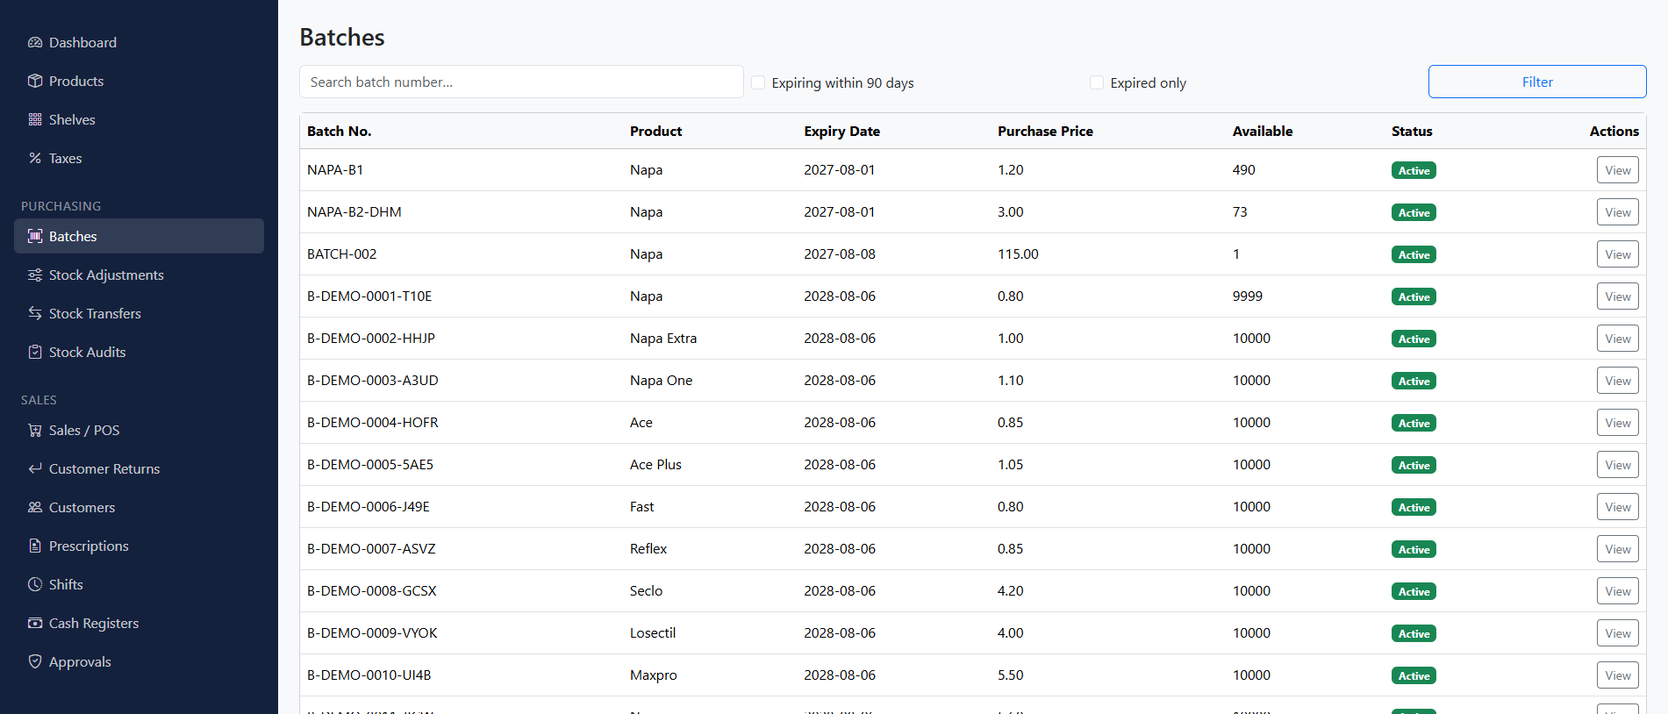
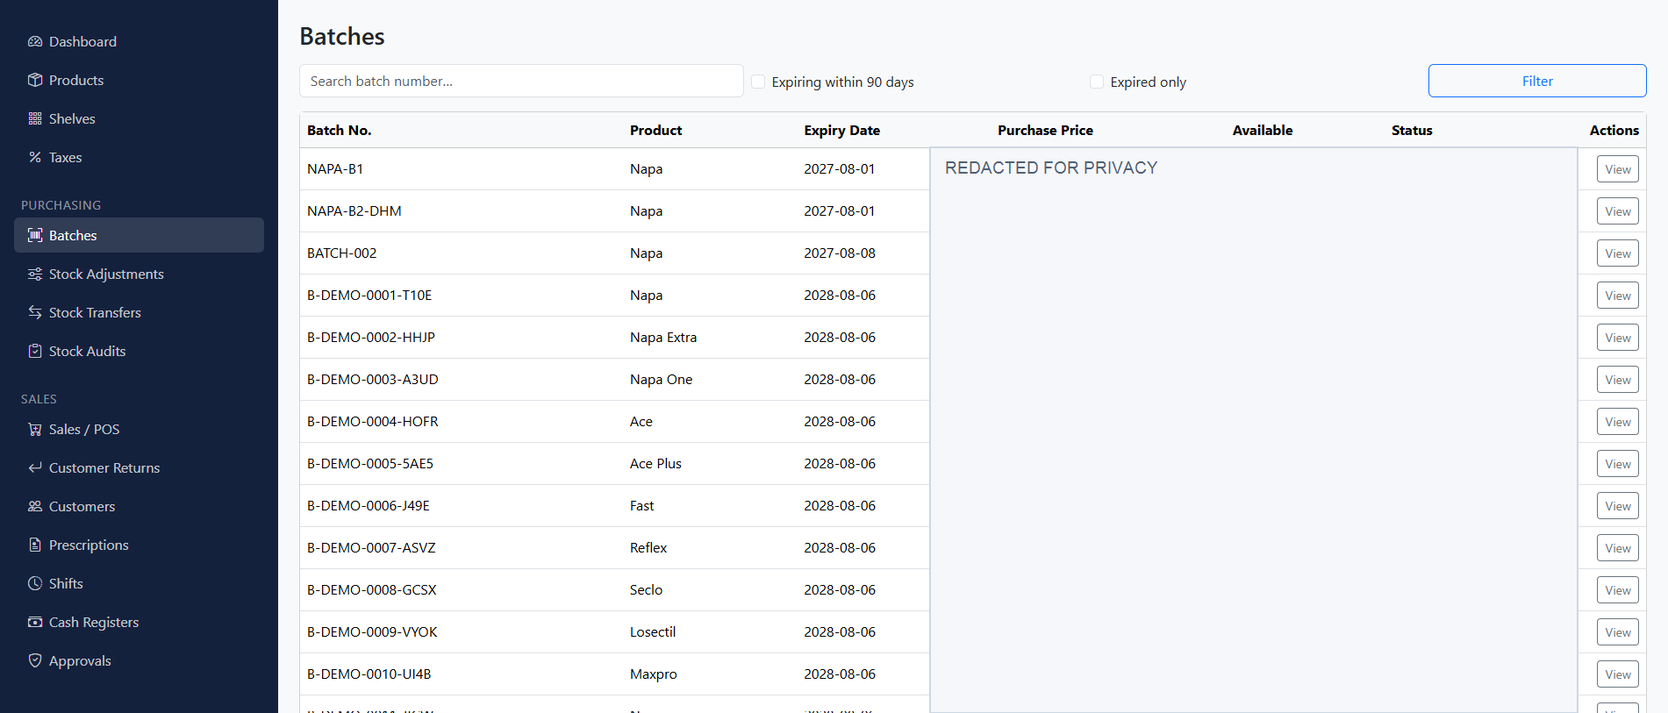
Improve Pharmacy ERP gallery and mobile API case study

diff --git a/projects/pharmacy.html b/projects/pharmacy.html
@@ -1,1 +1,1 @@
-<!doctype html><html lang="en" data-theme="light"><head><meta charset="utf-8"><meta name="viewport" content="width=device-width, initial-scale=1"><meta name="theme-color" content="#f7f8f4"><title>Pharmacy ERP &amp; POS — Project Overview — Iftakhar Ahmed Rakib</title><meta name="description" content="A multi-branch pharmacy operations platform with a Laravel web panel and Flutter mobile app, spanning catalog, purchasing, batch inventory, POS, cash oversight, and workforce workflows."><link rel="canonical" href="https://09rakib.github.io/projects/pharmacy.html"><meta property="og:title" content="Pharmacy ERP &amp; POS — Project Overview"><meta property="og:description" content="A multi-branch pharmacy operations platform with a Laravel web panel and Flutter mobile app, spanning catalog, purchasing, batch inventory, POS, cash oversight, and workforce workflows."><meta property="og:type" content="article"><meta property="og:url" content="https://09rakib.github.io/projects/pharmacy.html"><meta property="og:image" content="https://09rakib.github.io/assets/social-preview.png"><meta property="og:image:width" content="1200"><meta property="og:image:height" content="630"><meta property="og:image:alt" content="Iftakhar Ahmed Rakib — Flutter developer and software engineer"><meta name="twitter:card" content="summary_large_image"><link rel="icon" href="../assets/mark.svg" type="image/svg+xml"><link rel="stylesheet" href="../styles.css"><link rel="stylesheet" href="../polish.css"><link rel="stylesheet" href="../motion.css"><script src="../site.js" defer></script><script src="../motion.js" defer></script></head><body><a class="skip-link" href="#main">Skip to content</a><header class="site-header"><div class="container header-inner"><a class="brand" href="../index.html" aria-label="Rakib, home"><img src="../assets/mark.svg" width="35" height="35" alt=""><span>rakib<span class="brand-dot">.</span></span></a><nav id="site-nav" aria-label="Main navigation"><a href="../index.html#work">Work</a><a href="../index.html#skills">Skills</a><a href="../index.html#experience">Experience</a><a href="../index.html#contact">Contact ↗</a></nav><div class="header-actions"><button id="theme-toggle" class="icon-button" type="button" aria-label="Switch theme"><svg viewBox="0 0 24 24" fill="none" stroke="currentColor" stroke-width="1.6" aria-hidden="true"><path d="M20.5 14.2A9 9 0 0 1 9.8 3.5a9 9 0 1 0 10.7 10.7Z"/></svg></button><button id="menu-toggle" class="icon-button menu-toggle" type="button" aria-expanded="false" aria-label="Open navigation" aria-controls="site-nav">☰</button></div></div></header><main id="main" class="case-main"><section class="container case-intro"><a class="back-link" href="../index.html#work">← All selected work</a><p class="eyebrow">WEB + MOBILE / PHARMACY OPERATIONS</p><h1>Pharmacy ERP &amp; POS</h1><p class="case-lead">A multi-branch pharmacy operations platform with a Laravel web panel and Flutter mobile app, spanning catalog, purchasing, batch inventory, POS, cash oversight, and workforce workflows.</p><div class="tags"><span>Laravel 12</span><span>PHP</span><span>Blade</span><span>Bootstrap</span><span>Flutter</span><span>Dart</span><span>Riverpod</span><span>Dio</span><span>MySQL</span><span>Laravel Sanctum</span><span>Eloquent ORM</span></div><div class="case-meta"><div><span>CONTEXT</span><strong>Business application project</strong></div><div><span>MY ROLE / SCOPE</span><strong>Product planning and engineering contributions across pharmacy workflows; confirm your exact personal ownership before attributing individual modules.</strong></div><div><span>SOURCE</span><strong>Private repository</strong></div></div></section><div class="container"><div class="case-cover project-media"><div class="real-shot-composition illustrative-cover"><span class="shot-note">ILLUSTRATIVE PROJECT THUMBNAIL</span><div class="shot-description"><strong>Pharmacy ERP &amp; POS</strong><span>Purchasing, stock,<br>and branch operations.</span></div><img class="cover-screenshot" src="../assets/screenshots/pharmacy-erp-thumbnail.jpg" width="1440" height="810" alt="Illustrative Pharmacy ERP management system banner with an inventory dashboard concept" loading="lazy" decoding="async"></div><span class="media-label">Illustrative thumbnail · not an app screenshot</span></div></div><section class="container case-section case-overview"><div><p class="eyebrow">01 / THE PROBLEM</p><h2>What the project<br>needed to do.</h2></div><p>Pharmacy operations connect a shared medicine catalog to branch-specific purchasing, expiring batches, stock movements, counter sales, and cash reconciliation. The system must keep these workflows traceable while ensuring each tenant and branch sees only actions allowed by its permissions.</p></section><section class="case-tinted"><div class="container case-section"><p class="eyebrow">02 / ENGINEERING HIGHLIGHTS</p><h2>The work behind the interface.</h2><p class="engineering-highlight">Stock receipt, batch allocation, and sale workflows connect database transactions with tenant-scoped balance queries and row locks. The mobile client resolves session, branch, role, and shift state before selecting its working shell; Riverpod state, typed models, repositories, and Dio networking are kept in separate layers.</p><div class="challenge-grid"><article><span class="challenge-index">01</span><h3>Keep tenant and branch boundaries explicit</h3><p>Tenant middleware resolves the authenticated organization and gates suspended or expired tenants. Branch assignments and permission checks define the operational scope for a request; server-side authorization remains the authority for protected actions.</p></article><article><span class="challenge-index">02</span><h3>Make stock changes traceable</h3><p>The stock ledger records quantity changes with references and actors, while model guards restrict ledger updates and deletion. Receipt and sale flows use transactions, tenant-scoped balance queries, and row locks; sale allocation follows first-expiry-first-out (FEFO) order.</p></article><article><span class="challenge-index">03</span><h3>Connect web and mobile workflows</h3><p>Shared Laravel business services support the browser panel and mobile/API clients. In Flutter, auth, branch, and shift gates route users to the appropriate role-oriented shell; Dio attaches the active token and branch context to requests.</p></article><article><span class="challenge-index">04</span><h3>Account for cash-shift review</h3><p>Registers, shifts, cash movements, expected and closing cash, variance, approval requests, and investigations form connected records for cashier accountability and manager review.</p></article></div><div class="architecture-flow" aria-label="Project architecture"><span>Browser session / Sanctum token</span><i aria-hidden="true">→</i><span>Tenant + branch permissions</span><i aria-hidden="true">→</i><span>Shared Laravel services</span><i aria-hidden="true">→</i><span>Eloquent + MySQL transactions</span><i aria-hidden="true">→</i><span>Web panel + Flutter app</span></div></div></section><section class="container case-section case-overview"><div><p class="eyebrow">03 / IMPLEMENTED FEATURES</p><h2>What’s in the project.</h2></div><ul class="case-features"><li>Multi-tenant organizations with branch assignments, role permissions, and web, mobile, and API workflows.</li><li>Medicine master data, pharmacy product catalogs, supplier and customer records, barcodes, units, and images.</li><li>Purchasing from purchase orders through goods receipt, invoices, supplier payments, and purchase returns.</li><li>Batch-based inventory with stock balances, a traceable stock ledger, expiry-aware alerts, adjustments, transfers, and audits.</li><li>POS sales with search and barcode lookup, cart, split-payment data, approval handling, voids, and returns.</li><li>Cash registers and shifts with opening and closing balances, cash movements, variances, and investigation records.</li><li>Employee records, attendance, leave, payroll, prescriptions, operational dashboards, and reports.</li></ul></section><section class="container case-section case-gallery"><p class="eyebrow">04 / FROM THE APP</p><h2>A look at the real interface.</h2><div class="project-screen-grid"><figure><a href="../assets/screenshots/pharmacy-purchase-order.png" target="_blank" rel="noopener"><img src="../assets/screenshots/pharmacy-purchase-order.png" width="1912" height="822" loading="lazy" alt="Pharmacy ERP purchase order form with supplier, order date, expected date, item rows, and estimated total fields"></a><figcaption><span>01</span>Purchase-order entry: supplier, delivery dates, line items, tax, discounts, and estimated total. Personal account and branch details have been removed.</figcaption></figure><figure><a href="../assets/screenshots/pharmacy-medicine-master.png" target="_blank" rel="noopener"><img src="../assets/screenshots/pharmacy-medicine-master.png" width="1916" height="736" loading="lazy" alt="Global medicine master interface with search filters, medicine catalog rows, manufacturer, dosage form, status, and actions"></a><figcaption><span>02</span>Global medicine master: searchable medicines with manufacturer, dosage form, and status.</figcaption></figure><figure><a href="../assets/screenshots/pharmacy-batches.png" target="_blank" rel="noopener"><img src="../assets/screenshots/pharmacy-batches.png" width="1901" height="814" loading="lazy" alt="Pharmacy batch list with expiry filters, product, expiry date, purchase price, available quantity, and status"></a><figcaption><span>03</span>Batch inventory: expiry filters, available quantity, and batch status. Account and branch details have been removed.</figcaption></figure></div></section><section class="container case-section case-result"><p class="eyebrow">05 / RESULT & SCOPE</p><h2>Where the work stands.</h2><p>The reviewed implementation brings pharmacy catalog, purchasing, batch inventory, POS, cash-shift oversight, workforce modules, and reporting into web and mobile clients backed by shared Laravel services. Its data model and transaction flows are designed to make stock and cash changes traceable. Deployment outcomes or measured business impact are not claimed.</p><p class="scope-note">Based on the inspected project source and supplied technical notes. The source repository is private. Production deployment, real-world use, independent security audit, and end-to-end readiness have not been verified. The mobile receipt shares plain text; dedicated Bluetooth or thermal-printer integration is not claimed. Token/session caching is not offline-first transaction sync.</p></section><div class="container case-next"><a href="../index.html#work">← Back to selected work</a><a href="ecommerce.html">Next: Multi-Vendor Ecommerce ↗</a></div></main><footer class="container footer"><a class="brand" href="../index.html">rakib<span class="brand-dot">.</span></a><p>© <span id="year">2026</span> Iftakhar Ahmed Rakib</p><a href="../index.html#contact">Get in touch ↗</a></footer></body></html>
+<!doctype html><html lang="en" data-theme="light"><head><meta charset="utf-8"><meta name="viewport" content="width=device-width, initial-scale=1"><meta name="theme-color" content="#f7f8f4"><title>Pharmacy ERP &amp; POS — Project Overview — Iftakhar Ahmed Rakib</title><meta name="description" content="A multi-branch pharmacy operations platform with a Laravel web panel and Flutter mobile app, spanning catalog, purchasing, batch inventory, POS, cash oversight, and workforce workflows."><link rel="canonical" href="https://09rakib.github.io/projects/pharmacy.html"><meta property="og:title" content="Pharmacy ERP &amp; POS — Project Overview"><meta property="og:description" content="A multi-branch pharmacy operations platform with a Laravel web panel and Flutter mobile app, spanning catalog, purchasing, batch inventory, POS, cash oversight, and workforce workflows."><meta property="og:type" content="article"><meta property="og:url" content="https://09rakib.github.io/projects/pharmacy.html"><meta property="og:image" content="https://09rakib.github.io/assets/social-preview.png"><meta property="og:image:width" content="1200"><meta property="og:image:height" content="630"><meta property="og:image:alt" content="Iftakhar Ahmed Rakib — Flutter developer and software engineer"><meta name="twitter:card" content="summary_large_image"><link rel="icon" href="../assets/mark.svg" type="image/svg+xml"><link rel="stylesheet" href="../styles.css"><link rel="stylesheet" href="../polish.css"><link rel="stylesheet" href="../motion.css"><script src="../site.js" defer></script><script src="../motion.js" defer></script></head><body><a class="skip-link" href="#main">Skip to content</a><header class="site-header"><div class="container header-inner"><a class="brand" href="../index.html" aria-label="Rakib, home"><img src="../assets/mark.svg" width="35" height="35" alt=""><span>rakib<span class="brand-dot">.</span></span></a><nav id="site-nav" aria-label="Main navigation"><a href="../index.html#work">Work</a><a href="../index.html#skills">Skills</a><a href="../index.html#experience">Experience</a><a href="../index.html#contact">Contact ↗</a></nav><div class="header-actions"><button id="theme-toggle" class="icon-button" type="button" aria-label="Switch theme"><svg viewBox="0 0 24 24" fill="none" stroke="currentColor" stroke-width="1.6" aria-hidden="true"><path d="M20.5 14.2A9 9 0 0 1 9.8 3.5a9 9 0 1 0 10.7 10.7Z"/></svg></button><button id="menu-toggle" class="icon-button menu-toggle" type="button" aria-expanded="false" aria-label="Open navigation" aria-controls="site-nav">☰</button></div></div></header><main id="main" class="case-main"><section class="container case-intro"><a class="back-link" href="../index.html#work">← All selected work</a><p class="eyebrow">WEB + MOBILE / PHARMACY OPERATIONS</p><h1>Pharmacy ERP &amp; POS</h1><p class="case-lead">A multi-branch pharmacy operations platform with a Laravel web panel and Flutter mobile app, spanning catalog, purchasing, batch inventory, POS, cash oversight, and workforce workflows.</p><div class="tags"><span>Laravel 12</span><span>PHP</span><span>Blade</span><span>Bootstrap</span><span>Flutter</span><span>Dart</span><span>Riverpod</span><span>Dio</span><span>MySQL</span><span>Laravel Sanctum</span><span>Eloquent ORM</span></div><div class="case-meta"><div><span>CONTEXT</span><strong>Business application project</strong></div><div><span>MY ROLE / SCOPE</span><strong>Built the Flutter mobile client and integrated it with the Laravel REST API. Contributed to product planning, feature specification, UI direction, and workflow implementation.</strong></div><div><span>SOURCE</span><strong>Private repository</strong></div></div></section><div class="container"><div class="case-cover project-media"><div class="real-shot-composition illustrative-cover"><span class="shot-note">ILLUSTRATIVE PROJECT THUMBNAIL</span><div class="shot-description"><strong>Pharmacy ERP &amp; POS</strong><span>Purchasing, stock,<br>and branch operations.</span></div><img class="cover-screenshot" src="../assets/screenshots/pharmacy-erp-thumbnail.jpg" width="1440" height="810" alt="Illustrative Pharmacy ERP management system banner with an inventory dashboard concept" loading="lazy" decoding="async"></div><span class="media-label">Illustrative thumbnail · not an app screenshot</span></div></div><section class="container case-section case-overview"><div><p class="eyebrow">01 / THE PROBLEM</p><h2>What the project<br>needed to do.</h2></div><p>Pharmacy operations connect a shared medicine catalog to branch-specific purchasing, expiring batches, stock movements, counter sales, and cash reconciliation. The system must keep these workflows traceable while ensuring each tenant and branch sees only actions allowed by its permissions.</p></section><section class="case-tinted"><div class="container case-section"><p class="eyebrow">02 / ENGINEERING HIGHLIGHTS</p><h2>The work behind the interface.</h2><p class="engineering-highlight">Built the Flutter mobile client and integrated Laravel REST APIs with Dio. Riverpod providers and notifiers manage app state; typed models, repositories, and screens stay in separate layers. Session tokens and branch context accompany API requests, while shared Laravel services keep web and mobile workflows aligned.</p><div class="challenge-grid"><article><span class="challenge-index">01</span><h3>Keep tenant and branch boundaries explicit</h3><p>Tenant middleware resolves the authenticated organization and gates suspended or expired tenants. Branch assignments and permission checks define the operational scope for a request; server-side authorization remains the authority for protected actions.</p></article><article><span class="challenge-index">02</span><h3>Make stock changes traceable</h3><p>The stock ledger records quantity changes with references and actors, while model guards restrict ledger updates and deletion. Receipt and sale flows use transactions, tenant-scoped balance queries, and row locks; sale allocation follows first-expiry-first-out (FEFO) order.</p></article><article><span class="challenge-index">03</span><h3>Connect web and mobile workflows</h3><p>Integrated the Flutter app with shared Laravel REST endpoints using Dio. Requests carry the current session token and selected branch; centralized handling maps API errors, applies timeouts, and responds to expired sessions. Riverpod-managed session, role, branch, and shift state drives the appropriate mobile shell.</p></article><article><span class="challenge-index">04</span><h3>Account for cash-shift review</h3><p>Registers, shifts, cash movements, expected and closing cash, variance, approval requests, and investigations form connected records for cashier accountability and manager review.</p></article></div><div class="architecture-flow" aria-label="Project architecture"><span>Browser session / Sanctum token</span><i aria-hidden="true">→</i><span>Tenant + branch permissions</span><i aria-hidden="true">→</i><span>Shared Laravel services</span><i aria-hidden="true">→</i><span>Eloquent + MySQL transactions</span><i aria-hidden="true">→</i><span>Web panel + Flutter app</span></div></div></section><section class="container case-section case-overview"><div><p class="eyebrow">03 / IMPLEMENTED FEATURES</p><h2>What’s in the project.</h2></div><ul class="case-features"><li>Multi-tenant organizations with branch assignments, role permissions, and web, mobile, and API workflows.</li><li>Medicine master data, pharmacy product catalogs, supplier and customer records, barcodes, units, and images.</li><li>Purchasing from purchase orders through goods receipt, invoices, supplier payments, and purchase returns.</li><li>Batch-based inventory with stock balances, a traceable stock ledger, expiry-aware alerts, adjustments, transfers, and audits.</li><li>POS sales with search and barcode lookup, cart, split-payment data, approval handling, voids, and returns.</li><li>Cash registers and shifts with opening and closing balances, cash movements, variances, and investigation records.</li><li>Employee records, attendance, leave, payroll, prescriptions, operational dashboards, and reports.</li><li>Flutter mobile client integrated with the Laravel REST API through Dio, with Riverpod-managed state and session-aware role and branch flows.</li></ul></section><section class="container case-section case-gallery"><p class="eyebrow">04 / FROM THE APP</p><h2>A look at the real interface.</h2><div class="project-screen-grid"><figure><a href="../assets/screenshots/pharmacy-prescription.png" target="_blank" rel="noopener"><img src="../assets/screenshots/pharmacy-prescription.png" width="1897" height="820" loading="lazy" alt="Pharmacy ERP prescription entry form with doctor and customer selectors, patient fields, diagnosis notes, and prescribed medicine rows"></a><figcaption><span>01</span>Prescription entry form. The account header is removed; patient fields were blank in the supplied screen.</figcaption></figure><figure><a href="../assets/screenshots/pharmacy-sales.png" target="_blank" rel="noopener"><img src="../assets/screenshots/pharmacy-sales.png" width="1897" height="822" loading="lazy" alt="Pharmacy ERP sales list with invoice search, status filters, and transaction table"></a><figcaption><span>02</span>Sales list and invoice filters. Customer names and transaction rows are redacted for privacy.</figcaption></figure><figure><a href="../assets/screenshots/pharmacy-batches.png" target="_blank" rel="noopener"><img src="../assets/screenshots/pharmacy-batches.png" width="1901" height="813" loading="lazy" alt="Pharmacy batch list with expiry filters, product, expiry date, purchase price, available quantity, and status"></a><figcaption><span>03</span>Batch inventory: expiry filters and batch status. Account header, stock quantities, and purchase prices are redacted.</figcaption></figure><figure><a href="../assets/screenshots/pharmacy-purchase-returns.png" target="_blank" rel="noopener"><img src="../assets/screenshots/pharmacy-purchase-returns.png" width="1896" height="814" loading="lazy" alt="Purchase return supplier selection screen with supplier table and return actions"></a><figcaption><span>04</span>Purchase-return supplier selection. Supplier names, codes, and phone numbers are redacted.</figcaption></figure><figure><a href="../assets/screenshots/pharmacy-purchase-order.png" target="_blank" rel="noopener"><img src="../assets/screenshots/pharmacy-purchase-order.png" width="1912" height="821" loading="lazy" alt="Pharmacy ERP purchase order form with supplier, order date, expected date, item rows, and estimated total fields"></a><figcaption><span>05</span>Purchase-order entry: supplier, delivery dates, line items, tax, discounts, and estimated total. Personal account and branch details have been removed.</figcaption></figure><figure><a href="../assets/screenshots/pharmacy-medicine-master.png" target="_blank" rel="noopener"><img src="../assets/screenshots/pharmacy-medicine-master.png" width="1916" height="735" loading="lazy" alt="Global medicine master interface with search filters, medicine catalog rows, manufacturer, dosage form, status, and actions"></a><figcaption><span>06</span>Global medicine master: searchable medicines with manufacturer, dosage form, and status.</figcaption></figure><figure><a href="../assets/screenshots/pharmacy-branch-products.png" target="_blank" rel="noopener"><img src="../assets/screenshots/pharmacy-branch-products.png" width="1907" height="728" loading="lazy" alt="Branch pharmacy products table with medicine search, status and category filters, and product actions"></a><figcaption><span>07</span>Branch product catalog. Account details and the welcome banner are removed; the list demonstrates catalog search and management. Selling-price values are hidden.</figcaption></figure><figure><a href="../assets/screenshots/pharmacy-security-alerts.png" target="_blank" rel="noopener"><img src="../assets/screenshots/pharmacy-security-alerts.png" width="1905" height="809" loading="lazy" alt="Pharmacy security alerts interface with status and severity filters and a privacy-redacted alert table"></a><figcaption><span>08</span>Security-alert review screen. Staff identities and incident records are redacted.</figcaption></figure><figure><a href="../assets/screenshots/pharmacy-security-dashboard.png" target="_blank" rel="noopener"><img src="../assets/screenshots/pharmacy-security-dashboard.png" width="1196" height="768" loading="lazy" alt="Pharmacy security dashboard with overview panels and privacy-redacted operational data"></a><figcaption><span>09</span>Security oversight dashboard. Operational counts, staff references, and cash variances are redacted.</figcaption></figure><figure><a href="../assets/screenshots/pharmacy-purchasing-dashboard.png" target="_blank" rel="noopener"><img src="../assets/screenshots/pharmacy-purchasing-dashboard.png" width="1902" height="819" loading="lazy" alt="Pharmacy purchasing dashboard with stock, purchase order, and payable summary cards"></a><figcaption><span>10</span>Purchasing dashboard and workflow shortcuts. Financial and supplier records are redacted.</figcaption></figure><figure><a href="../assets/screenshots/pharmacy-branch-catalog.png" target="_blank" rel="noopener"><img src="../assets/screenshots/pharmacy-branch-catalog.png" width="1910" height="735" loading="lazy" alt="Pharmacy branch product catalog with search, category filters, active statuses, and medicine rows"></a><figcaption><span>11</span>Branch product catalog with medicine search and category filters. Account header and welcome banner are removed. Selling-price values are hidden.</figcaption></figure><figure><a href="../assets/screenshots/pharmacy-cash-shifts.png" target="_blank" rel="noopener"><img src="../assets/screenshots/pharmacy-cash-shifts.png" width="1907" height="813" loading="lazy" alt="Cash register shift list with open and closed states, variance column, and actions"></a><figcaption><span>12</span>Cash-register shift oversight. Staff names, dates, shift identifiers, and variances are redacted.</figcaption></figure></div></section><section class="container case-section case-result"><p class="eyebrow">05 / RESULT & SCOPE</p><h2>Where the work stands.</h2><p>The reviewed implementation brings pharmacy catalog, purchasing, batch inventory, POS, cash-shift oversight, workforce modules, and reporting into web and mobile clients backed by shared Laravel services. Its data model and transaction flows are designed to make stock and cash changes traceable. Deployment outcomes or measured business impact are not claimed.</p><p class="scope-note">Based on the inspected project source and supplied technical notes. The source repository is private. Production deployment, real-world use, independent security audit, and end-to-end readiness have not been verified. The mobile receipt shares plain text; dedicated Bluetooth or thermal-printer integration is not claimed. Token/session caching is not offline-first transaction sync.</p></section><div class="container case-next"><a href="../index.html#work">← Back to selected work</a><a href="ecommerce.html">Next: Multi-Vendor Ecommerce ↗</a></div></main><footer class="container footer"><a class="brand" href="../index.html">rakib<span class="brand-dot">.</span></a><p>© <span id="year">2026</span> Iftakhar Ahmed Rakib</p><a href="../index.html#contact">Get in touch ↗</a></footer></body></html>

diff --git a/index.html b/index.html
@@ -58,7 +58,7 @@
 <article class="project-card" data-category="mobile"><div class="project-media"><svg viewBox="0 0 550 300" xmlns="http://www.w3.org/2000/svg" aria-hidden="true" focusable="false"><defs></defs><rect width="550" height="300" fill="#e9e9f3"/><circle cx="430" cy="80" r="165" fill="#d8d9ee"/><circle cx="410" cy="90" r="128" fill="none" stroke="#c0c2df"/><text x="35" y="65" fill="#3c3c65" font-family="Segoe UI,sans-serif" font-size="12" letter-spacing="3">VOIEXA</text><text x="35" y="106" fill="#363557" font-family="Georgia,serif" font-size="30">A more connected</text><text x="35" y="143" fill="#363557" font-family="Georgia,serif" font-size="30">mobile experience.</text><g transform="translate(337,27) rotate(8,50,90)"><rect x="0" y="0" width="100" height="180" rx="17" fill="#fff" stroke="#bccdc6" stroke-width="2"/><rect x="8" y="10" width="84" height="160" rx="11" fill="#f3f6f4"/><rect x="34" y="7" width="32" height="5" rx="3" fill="#a6bcb1"/><circle cx="50" cy="57" r="22" fill="#6361a5"/><path d="M39 55h5l3-7 5 18 4-12h7" fill="none" stroke="#fff" stroke-width="2"/><rect x="21" y="96" width="58" height="5" rx="2" fill="#d9dbea"/><rect x="27" y="109" width="46" height="4" rx="2" fill="#e2e4ec"/><circle cx="50" cy="144" r="13" fill="#6361a5"/><path d="m45 142 4 5 6-6" fill="none" stroke="#fff" stroke-width="2"/></g><g fill="#7776a8"><rect x="38" y="195" width="5" height="14" rx="2"/><rect x="49" y="182" width="5" height="40" rx="2"/><rect x="60" y="172" width="5" height="60" rx="2"/><rect x="71" y="190" width="5" height="24" rx="2"/><rect x="82" y="182" width="5" height="40" rx="2"/><rect x="93" y="193" width="5" height="18" rx="2"/><rect x="104" y="174" width="5" height="56" rx="2"/><rect x="115" y="184" width="5" height="36" rx="2"/><rect x="126" y="193" width="5" height="18" rx="2"/></g></svg><span class="media-private">Private source</span><span class="media-label">Concept illustration · not an app screenshot</span></div><div class="project-body"><p class="project-category">MOBILE / PROFESSIONAL CONTRIBUTION</p><div class="project-title-row"><h3><a href="projects/voiexa.html">Voiexa Mobile App</a></h3><a class="project-open" href="projects/voiexa.html" aria-label="Read Voiexa Mobile App case study">↗</a></div><p class="project-description">A Flutter client for a communications platform, with authentication flows and connected mobile interfaces.</p><div class="tags"><span>Flutter</span><span>Dart</span><span>Dio</span><span>Provider</span></div><div class="project-bottom"><a class="detail-link" href="projects/voiexa.html">Explore project <span aria-hidden="true">↗</span></a></div></div></article>
 <article class="project-card" data-category="mobile"><div class="project-media"><div class="real-shot-composition"><span class="shot-note">ACTUAL ANDROID APP</span><div class="shot-description"><strong>DocScan</strong><span>Scan, manage,<br>and compress.</span></div><img class="cover-screenshot" src="assets/screenshots/docscan-compression.webp" width="540" height="1200" alt="DocScan compression screen showing medium-quality selection and Compress action" loading="lazy" decoding="async"></div><span class="media-label">Real app screenshot</span></div><div class="project-body"><p class="project-category">MOBILE / DOCUMENT TOOLS</p><div class="project-title-row"><h3><a href="projects/docscan.html">DocScan</a></h3><a class="project-open" href="projects/docscan.html" aria-label="Read DocScan case study">↗</a></div><p class="project-description">An Android document scanner with local document management, PDF compression, and saved-page editing.</p><div class="tags"><span>Flutter</span><span>Riverpod</span><span>ML Kit</span><span>SQLite</span></div><div class="project-bottom"><a class="detail-link" href="projects/docscan.html">Explore project <span aria-hidden="true">↗</span></a><a class="source-link" href="https://github.com/09rakib/Document-Scanner" target="_blank" rel="noopener noreferrer">GitHub ↗</a></div></div></article>
 <article class="project-card" data-category="mobile"><div class="project-media"><div class="real-shot-composition"><span class="shot-note">APP SCREENSHOT · ACTIVE DEVELOPMENT</span><div class="shot-description"><strong>Protijogi</strong><span>Prepare, practise, and track progress.</span></div><img class="cover-screenshot" src="assets/screenshots/protijogi-home.webp" width="490" height="862" alt="Protijogi home screen with a daily quiz and study shortcuts" loading="lazy" decoding="async"></div><span class="media-private">Private source</span><span class="media-label">Real app screenshot</span></div><div class="project-body"><p class="project-category">MOBILE / JOB EXAM PREPARATION</p><div class="project-title-row"><h3><a href="projects/protijogi.html">Protijogi — Offline Job Preparation App</a></h3><a class="project-open" href="projects/protijogi.html" aria-label="Read Protijogi — Offline Job Preparation App case study">↗</a></div><p class="project-status"><span class="status-dot"></span>Active development · testing in progress</p><p class="project-description">An offline-first mobile app for candidates preparing for BCS, bank, Petrobangla and other job examinations in Bangladesh.</p><div class="tags"><span>TypeScript</span><span>React Native / TSX</span><span>Expo</span><span>Expo Router</span><span>Hooks + Context</span><span>AsyncStorage</span><span>Local JSON question bank</span><span>React Native SVG</span><span>Node.js test scripts</span><span>Playwright</span><span>Git + GitHub</span></div><div class="project-bottom"><a class="detail-link" href="projects/protijogi.html">Explore project <span aria-hidden="true">↗</span></a><a class="source-link" href="https://github.com/09rakib/Protijogi-Mobile-Application-" target="_blank" rel="noopener noreferrer">Private repository ↗</a></div></div></article>
-<article class="project-card" data-category="web" data-project="pharmacy"><div class="project-media"><div class="real-shot-composition illustrative-cover"><span class="shot-note">ILLUSTRATIVE PROJECT THUMBNAIL</span><div class="shot-description"><strong>Pharmacy ERP &amp; POS</strong><span>Purchasing, stock,<br>and branch operations.</span></div><img class="cover-screenshot" src="assets/screenshots/pharmacy-erp-thumbnail.jpg" width="1440" height="810" alt="Illustrative Pharmacy ERP management system banner with an inventory dashboard concept" loading="lazy" decoding="async"></div><span class="media-private">Private source</span><span class="media-label">Illustrative thumbnail · not an app screenshot</span></div><div class="project-body"><p class="project-category">WEB + MOBILE / PHARMACY OPERATIONS</p><div class="project-title-row"><h3><a href="projects/pharmacy.html">Pharmacy ERP &amp; POS</a></h3><a class="project-open" href="projects/pharmacy.html" aria-label="Read Pharmacy ERP &amp; POS case study">↗</a></div><p class="project-description">A multi-branch pharmacy operations platform with a Laravel web panel and Flutter mobile app, spanning catalog, purchasing, batch inventory, POS, cash oversight, and workforce workflows.</p><div class="tags"><span>Laravel 12</span><span>PHP</span><span>Blade</span><span>Bootstrap</span><span>Flutter</span><span>Dart</span><span>Riverpod</span><span>Dio</span><span>MySQL</span><span>Laravel Sanctum</span><span>Eloquent ORM</span></div><div class="project-bottom"><a class="detail-link" href="projects/pharmacy.html">Explore project <span aria-hidden="true">↗</span></a></div></div></article>
+<article class="project-card" data-category="web"><div class="project-media"><div class="real-shot-composition illustrative-cover"><span class="shot-note">ILLUSTRATIVE PROJECT THUMBNAIL</span><div class="shot-description"><strong>Pharmacy ERP &amp; POS</strong><span>Purchasing, stock,<br>and branch operations.</span></div><img class="cover-screenshot" src="assets/screenshots/pharmacy-erp-thumbnail.jpg" width="1440" height="810" alt="Illustrative Pharmacy ERP management system banner with an inventory dashboard concept" loading="lazy" decoding="async"></div><span class="media-private">Private source</span><span class="media-label">Illustrative thumbnail · not an app screenshot</span></div><div class="project-body"><p class="project-category">WEB + MOBILE / PHARMACY OPERATIONS</p><div class="project-title-row"><h3><a href="projects/pharmacy.html">Pharmacy ERP &amp; POS</a></h3><a class="project-open" href="projects/pharmacy.html" aria-label="Read Pharmacy ERP &amp; POS case study">↗</a></div><p class="project-description">A multi-branch pharmacy operations platform with a Laravel web panel and Flutter mobile app, spanning catalog, purchasing, batch inventory, POS, cash oversight, and workforce workflows.</p><div class="tags"><span>Laravel 12</span><span>PHP</span><span>Blade</span><span>Bootstrap</span><span>Flutter</span><span>Dart</span><span>Riverpod</span><span>Dio</span><span>MySQL</span><span>Laravel Sanctum</span><span>Eloquent ORM</span></div><div class="project-bottom"><a class="detail-link" href="projects/pharmacy.html">Explore project <span aria-hidden="true">↗</span></a></div></div></article>
 <article class="project-card" data-category="web"><div class="project-media"><svg viewBox="0 0 550 300" xmlns="http://www.w3.org/2000/svg" aria-hidden="true" focusable="false"><defs></defs><rect width="550" height="300" fill="#f3e7db"/><circle cx="460" cy="41" r="160" fill="#efd9c5"/><rect x="69" y="46" width="412" height="214" rx="12" fill="#fffaf5" stroke="#dfc9b5"/><path d="M69 82h412" stroke="#e9dacb"/><circle cx="88" cy="64" r="3" fill="#ae7c56"/><circle cx="100" cy="64" r="3" fill="#cfb198"/><circle cx="112" cy="64" r="3" fill="#e3cfbc"/><text x="359" y="68" fill="#8a6042" font-family="Segoe UI,sans-serif" font-size="9" letter-spacing="2">MARKETPLACE</text><rect x="88" y="100" width="112" height="115" rx="7" fill="#e7ecdd"/><rect x="219" y="100" width="112" height="115" rx="7" fill="#eee3d9"/><rect x="350" y="100" width="112" height="115" rx="7" fill="#e1e4ec"/><path d="m126 131 18 8 18-8 15 16-12 11-5-6v44h-32v-44l-5 6-12-11Z" fill="#7b9375"/><path d="M258 135h34l8 61h-50zM263 135v-8a12 12 0 0 1 24 0v8" fill="#b58c6e" stroke="#b58c6e" stroke-width="4"/><rect x="378" y="134" width="55" height="54" rx="8" fill="#7c88a2"/><path d="M388 134v-9h35v9" fill="none" stroke="#7c88a2" stroke-width="4"/><g stroke="#e0cfbe" stroke-width="5" stroke-linecap="round"><path d="M91 232h67M222 232h67M353 232h67"/></g></svg><span class="media-private">Private source</span><span class="media-label">Concept illustration · not an app screenshot</span></div><div class="project-body"><p class="project-category">WEB / COMMERCE</p><div class="project-title-row"><h3><a href="projects/ecommerce.html">Multi-Vendor Ecommerce</a></h3><a class="project-open" href="projects/ecommerce.html" aria-label="Read Multi-Vendor Ecommerce case study">↗</a></div><p class="project-description">A Laravel marketplace with customer, vendor, and administrator modules, plus cart and checkout services.</p><div class="tags"><span>Laravel 12</span><span>PHP</span><span>MySQL</span><span>Blade</span></div><div class="project-bottom"><a class="detail-link" href="projects/ecommerce.html">Explore project <span aria-hidden="true">↗</span></a></div></div></article>
 <!-- PROJECTS END --></div>
       <noscript><p>Enable JavaScript to browse project details, or explore the public repositories directly: <a href="https://github.com/09rakib/Document-Scanner">DocScan</a>, <a href="https://github.com/09rakib/photo-resizer-mobile-app">Photo Resizer</a>, <a href="https://github.com/09rakib/ClothingSite">Clothing Store</a>, <a href="https://github.com/09rakib/MiniShopTycoon">Mini Shop Tycoon</a>.</p></noscript>

diff --git a/polish.css b/polish.css
@@ -14,5 +14,11 @@
 
 .project-status{display:flex;align-items:center;gap:8px;color:var(--muted);font-size:12px;font-weight:600;margin:0 0 12px}.project-status .status-dot{width:7px;height:7px;flex:none}.engineering-highlight{max-width:920px;padding:22px 24px;border-left:3px solid var(--green);background:var(--bg);color:var(--ink);font-size:16px;line-height:1.9;border-radius:0 10px 10px 0;margin:28px 0}.project-screen-grid{display:grid;grid-template-columns:repeat(5,minmax(0,1fr));gap:16px;margin-top:32px}.project-screen-grid figure{min-width:0;margin:0;padding:9px;border:1px solid var(--line);border-radius:12px;background:var(--soft)}.project-screen-grid figure a{display:block;overflow:hidden;border-radius:8px}.project-screen-grid img{width:100%;height:auto;aspect-ratio:0.59;object-fit:contain;object-position:top;background:var(--bg);border-radius:8px;transition:transform .25s}.project-screen-grid a:hover img{transform:scale(1.025)}.project-screen-grid figcaption{display:flex;gap:8px;align-items:flex-start;padding:10px 2px 2px;color:var(--muted);font-size:11px;line-height:1.6}.project-screen-grid figcaption span{flex:none;color:var(--green);font-weight:700;font-size:10px}.project-screen-grid a:focus-visible{outline:3px solid var(--green);outline-offset:3px}@media(max-width:900px){.project-screen-grid{grid-template-columns:repeat(3,minmax(0,1fr))}}@media(max-width:600px){.project-screen-grid{grid-template-columns:repeat(2,minmax(0,1fr));gap:12px}.project-screen-grid figure{padding:6px}.project-screen-grid figcaption{font-size:10px}.engineering-highlight{padding:17px;font-size:14px}}
 
-/* Pharmacy ERP promotional thumbnail; the case gallery below uses actual app screens. */
-.project-card[data-project="pharmacy"] .real-shot-composition{display:block;padding:0;background:#edf1f5}.project-card[data-project="pharmacy"] .cover-screenshot{width:100%;height:100%;max-width:100%;object-fit:cover;transform:none;border:0;border-radius:0;box-shadow:none}.project-card[data-project="pharmacy"] .illustrative-cover .shot-note,.project-card[data-project="pharmacy"] .illustrative-cover .shot-description{display:none}.case-cover .real-shot-composition:has(img[src*="pharmacy-erp-thumbnail"]){display:flex;justify-content:center;padding:8px;background:#f7f8f4}.case-cover .real-shot-composition:has(img[src*="pharmacy-erp-thumbnail"]) .shot-note,.case-cover .real-shot-composition:has(img[src*="pharmacy-erp-thumbnail"]) .shot-description{display:none}.case-cover img[src*="pharmacy-erp-thumbnail"]{width:100%;height:auto;max-width:100%;max-height:390px;object-fit:contain;transform:none;border:0;border-radius:4px;box-shadow:none}
+/* Pharmacy case study: readable full-width landscape screenshots. */
+.case-gallery .project-screen-grid{grid-template-columns:repeat(2,minmax(0,1fr));gap:24px;margin-top:32px;align-items:start}
+.case-gallery .project-screen-grid figure{padding:12px;background:var(--paper);box-shadow:0 12px 30px rgba(22,35,61,.06)}
+.case-gallery .project-screen-grid figure a{background:#eef1f5;display:flex;align-items:center;justify-content:center;padding:8px}
+.case-gallery .project-screen-grid img{display:block;width:100%;height:auto;aspect-ratio:auto;max-height:none;object-fit:contain;object-position:center;background:#f5f7fa}
+.case-gallery .project-screen-grid figcaption{font-size:13px;line-height:1.7;padding:12px 4px 3px;color:var(--ink)}
+@media(max-width:760px){.case-gallery .project-screen-grid{grid-template-columns:1fr;gap:18px}.case-gallery .project-screen-grid figure{padding:8px}.case-gallery .project-screen-grid figcaption{font-size:12px}}
+
